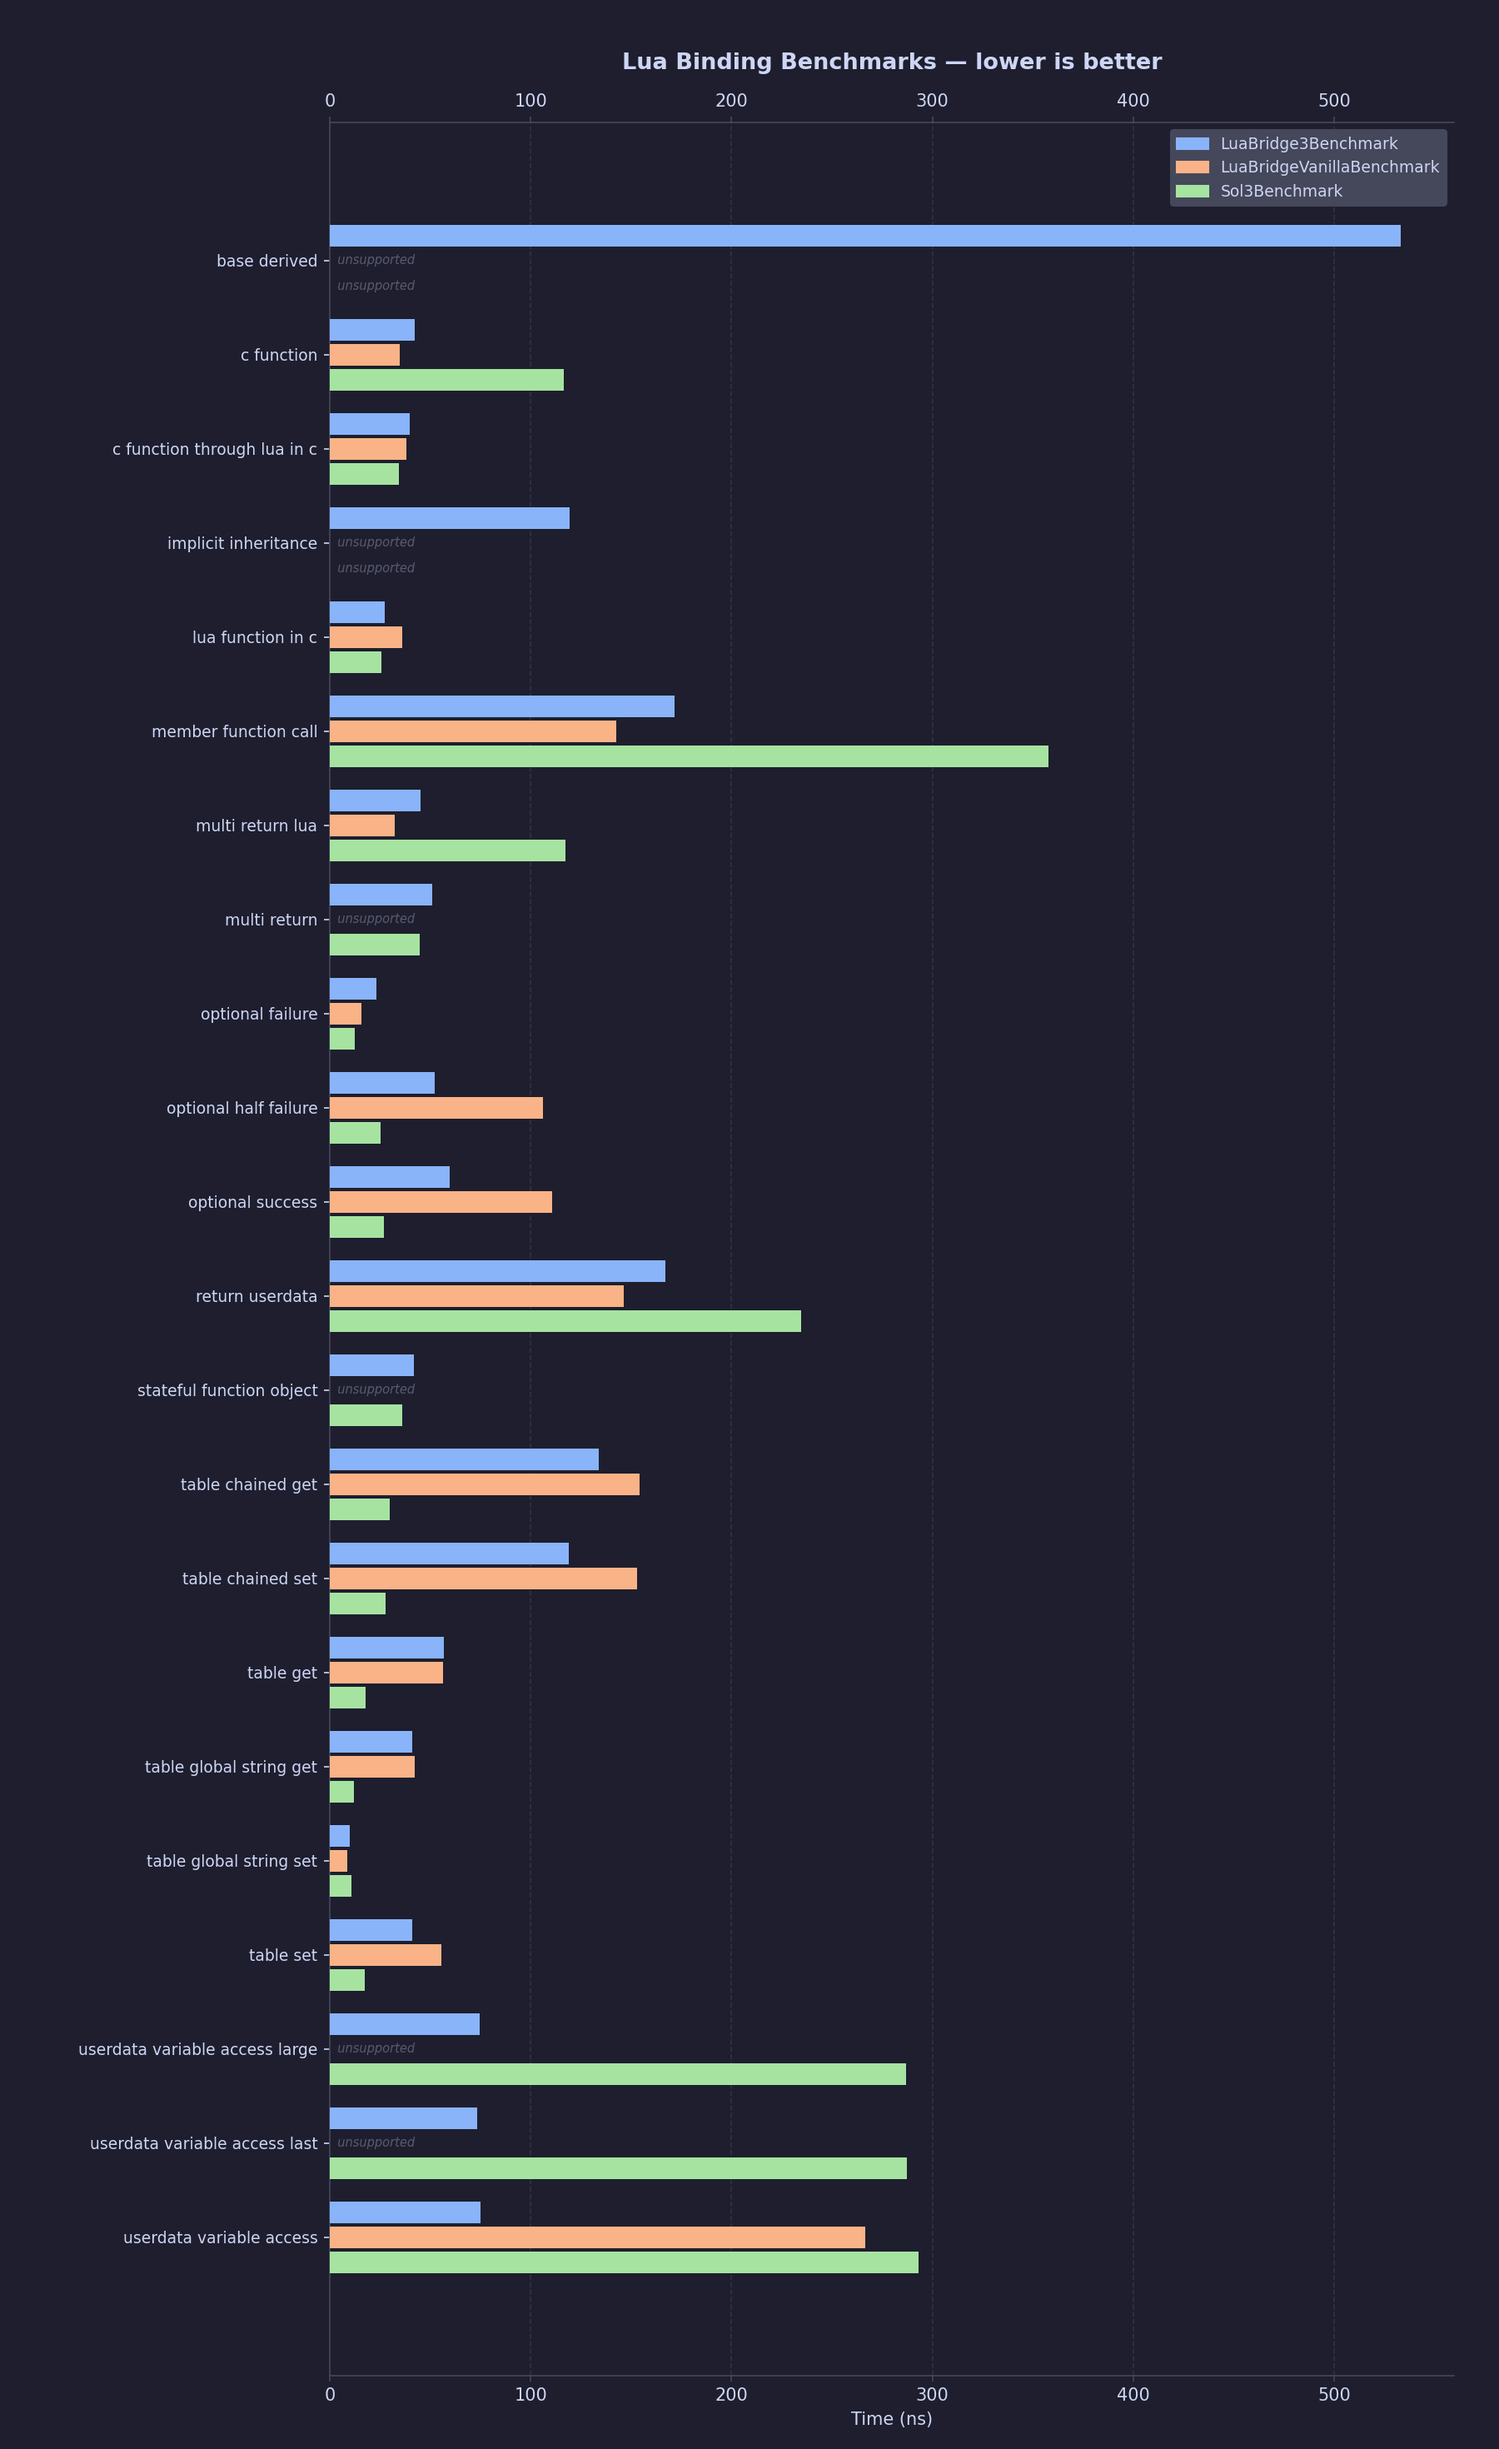
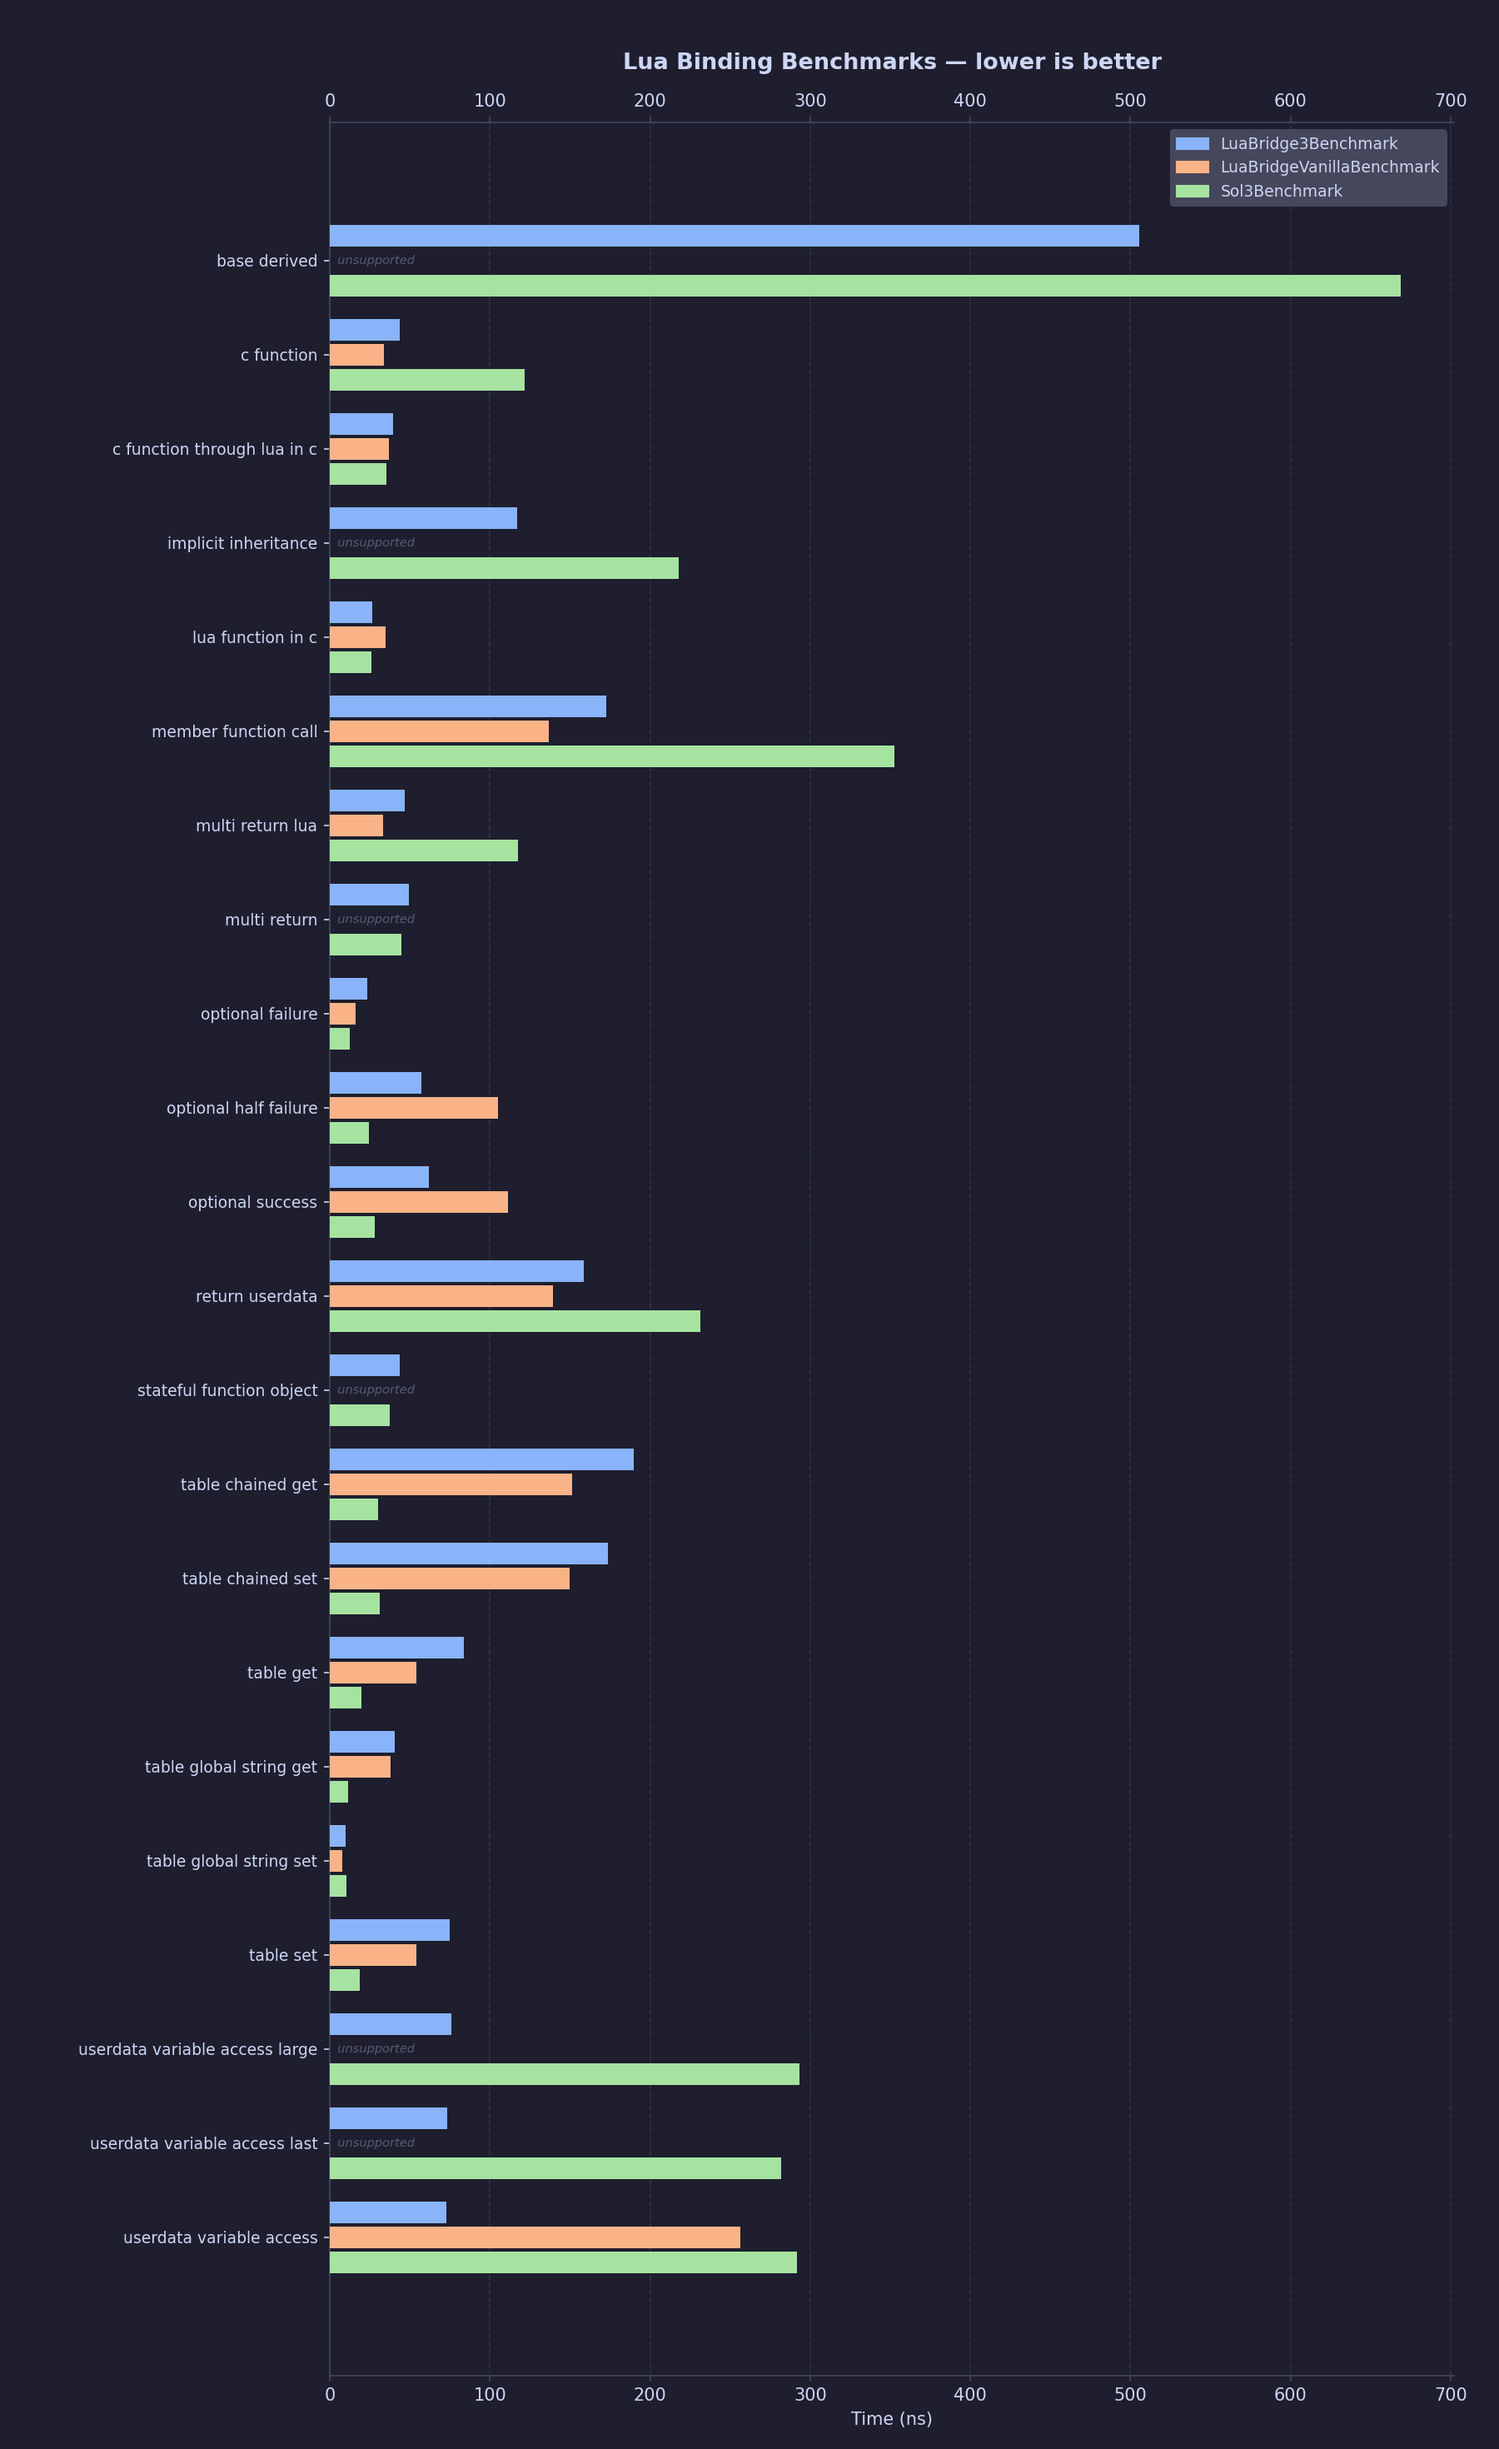
More changes

diff --git a/Source/LuaBridge/detail/Invoke.h b/Source/LuaBridge/detail/Invoke.h
@@ -32,7 +32,7 @@ bool is_handler_valid(const F& f) noexcept
 }
 
 template <class Tuple, std::size_t... Indices>
-TypeResult<Tuple> decodeTupleResult(lua_State* L, int firstResultIndex, std::index_sequence<Indices...>)
+TypeResult<Tuple> decode_tuple_result(lua_State* L, int first_result_index, std::index_sequence<Indices...>)
 {
     Tuple value;
     std::error_code ec;
@@ -42,7 +42,7 @@ TypeResult<Tuple> decodeTupleResult(lua_State* L, int firstResultIndex, std::ind
         {
             using ElementType = std::tuple_element_t<Indices, Tuple>;
 
-            auto element = Stack<ElementType>::get(L, firstResultIndex + static_cast<int>(Indices));
+            auto element = Stack<ElementType>::get(L, first_result_index + static_cast<int>(Indices));
             if (! element)
             {
                 ec = element.error();
@@ -61,29 +61,29 @@ TypeResult<Tuple> decodeTupleResult(lua_State* L, int firstResultIndex, std::ind
 }
 
 template <class R>
-TypeResult<R> decodeCallResult(lua_State* L, int firstResultIndex, int numReturnedValues)
+TypeResult<R> decode_call_result(lua_State* L, int first_result_index, int num_returned_values)
 {
     if constexpr (std::is_same_v<R, void> || std::is_same_v<R, std::tuple<>>)
     {
-        if (numReturnedValues != 0)
+        if (num_returned_values != 0)
             return makeErrorCode(ErrorCode::InvalidTableSizeInCast);
 
         return {};
     }
-    else if constexpr (IsTuple<R>::value)
+    else if constexpr (is_tuple_v<R>)
     {
-        constexpr auto expectedSize = static_cast<int>(std::tuple_size_v<R>);
-        if (numReturnedValues != expectedSize)
+        constexpr auto expected_size = static_cast<int>(std::tuple_size_v<R>);
+        if (num_returned_values != expected_size)
             return makeErrorCode(ErrorCode::InvalidTableSizeInCast);
 
-        return decodeTupleResult<R>(L, firstResultIndex, std::make_index_sequence<std::tuple_size_v<R>>{});
+        return decode_tuple_result<R>(L, first_result_index, std::make_index_sequence<expected_size>{});
     }
     else
     {
-        if (numReturnedValues < 1)
+        if (num_returned_values < 1)
             return makeErrorCode(ErrorCode::InvalidTypeCast);
 
-        return Stack<R>::get(L, firstResultIndex);
+        return Stack<R>::get(L, first_result_index);
     }
 }
 
@@ -144,7 +144,7 @@ TypeResult<R> callWithHandler(const Ref& object, F&& errorHandler, Args&&... arg
 
     const int firstResultIndex = initialTop + 1;
     const int numReturnedValues = lua_gettop(L) - initialTop;
-    return detail::decodeCallResult<R>(L, firstResultIndex, numReturnedValues);
+    return detail::decode_call_result<R>(L, firstResultIndex, numReturnedValues);
 }
 
 template <class Ref, class F, class... Args>

diff --git a/Source/LuaBridge/detail/CFunctions.h b/Source/LuaBridge/detail/CFunctions.h
@@ -106,6 +106,24 @@ auto pop_arguments(lua_State* L, std::tuple<Types...>& t)
 
 //=================================================================================================
 /**
+ * @brief Push a tuple on the stack.
+ */
+template <class Tuple, std::size_t... Is>
+Result push_tuple_impl(lua_State* L, const Tuple& value, std::index_sequence<Is...>)
+{
+    Result result;
+    (void)((result = Stack<std::decay_t<std::tuple_element_t<Is, Tuple>>>::push(L, std::get<Is>(value)), bool(result)) && ...);
+    return result;
+}
+
+template <class... Ts>
+Result push_tuple(lua_State* L, const std::tuple<Ts...>& value)
+{
+    return push_tuple_impl(L, value, std::index_sequence_for<Ts...>{});
+}
+
+//=================================================================================================
+/**
  * @brief Check if a method name is a metamethod.
  */
 template <class T = void, class... Args>
@@ -1513,10 +1531,10 @@ struct function
         try
         {
 #endif
-            if constexpr (detail::IsTuple<ReturnType>::value)
+            if constexpr (detail::is_tuple_v<ReturnType>)
             {
                 numResults = static_cast<int>(std::tuple_size_v<ReturnType>);
-                result = detail::pushTuple(L, invoke_callable_from_stack<ArgsPack, Start>(L, std::forward<F>(func)));
+                result = detail::push_tuple(L, invoke_callable_from_stack<ArgsPack, Start>(L, std::forward<F>(func)));
             }
             else
             {
@@ -1546,10 +1564,10 @@ struct function
         try
         {
 #endif
-            if constexpr (detail::IsTuple<ReturnType>::value)
+            if constexpr (detail::is_tuple_v<ReturnType>)
             {
                 numResults = static_cast<int>(std::tuple_size_v<ReturnType>);
-                result = detail::pushTuple(L, invoke_member_callable_from_stack<ArgsPack, Start>(L, ptr, std::forward<F>(func)));
+                result = detail::push_tuple(L, invoke_member_callable_from_stack<ArgsPack, Start>(L, ptr, std::forward<F>(func)));
             }
             else
             {
@@ -1571,7 +1589,7 @@ struct function
 };
 
 template <class ArgsPack, std::size_t Start>
-struct function<std::tuple<>, ArgsPack, Start>
+struct function<std::tuple<>, ArgsPack, Start> : function<void, ArgsPack, Start>
 {
     template <class F>
     static int call(lua_State* L, F&& func)

diff --git a/Benchmarks/benchmark_sol3.cpp b/Benchmarks/benchmark_sol3.cpp
@@ -325,7 +325,31 @@ void multi_return_measure(benchmark::State& state)
 
 void base_derived_measure(benchmark::State& state)
 {
-    setSkipped(state, "base_derived_measure not implemented yet for sol3 Google Benchmark port");
+    sol::state lua;
+
+    lua.new_usertype<ComplexBaseA>("ComplexBaseA",
+        "a_func", &ComplexBaseA::a_func,
+        "a", &ComplexBaseA::a);
+
+    lua.new_usertype<ComplexBaseB>("ComplexBaseB",
+        "b_func", &ComplexBaseB::b_func,
+        "b", &ComplexBaseB::b);
+
+    lua.new_usertype<ComplexAB>("ComplexAB",
+        sol::base_classes, sol::bases<ComplexBaseA, ComplexBaseB>(),
+        "ab_func", &ComplexAB::ab_func,
+        "ab", &ComplexAB::ab);
+
+    ComplexAB ab;
+    lua["b"] = &ab;
+
+    lua.script("function call_base() return b:a_func() + b:b_func() end");
+
+    for (auto _ : state)
+    {
+        (void) _;
+        lua["call_base"]();
+    }
 }
 
 void optional_success_measure(benchmark::State& state)
@@ -392,7 +416,26 @@ void return_userdata_measure(benchmark::State& state)
 
 void implicit_inheritance_measure(benchmark::State& state)
 {
-    setSkipped(state, "implicit_inheritance_measure not implemented yet for sol3 Google Benchmark port");
+    sol::state lua;
+
+    lua.new_usertype<ComplexBaseA>("ComplexBaseA",
+        "a_func", &ComplexBaseA::a_func);
+
+    lua.new_usertype<ComplexAB>("ComplexAB",
+        sol::constructors<ComplexAB()>(),
+        sol::base_classes, sol::bases<ComplexBaseA>(),
+        "ab_func", &ComplexAB::ab_func);
+
+    lua.set_function("call_a", +[](ComplexBaseA* obj) -> double { return obj->a_func(); });
+
+    lua.script("obj = ComplexAB.new()");
+    lua.script("function test_implicit() return call_a(obj) end");
+
+    for (auto _ : state)
+    {
+        (void) _;
+        lua["test_implicit"]();
+    }
 }
 
 } // namespace

diff --git a/Source/LuaBridge/detail/Stack.h b/Source/LuaBridge/detail/Stack.h
@@ -26,31 +26,6 @@
 #include <utility>
 
 namespace luabridge {
-namespace detail {
-template <class T>
-struct IsTuple : std::false_type
-{
-};
-
-template <class... Ts>
-struct IsTuple<std::tuple<Ts...>> : std::true_type
-{
-};
-
-template <class Tuple, std::size_t... Is>
-Result pushTupleImpl(lua_State* L, const Tuple& value, std::index_sequence<Is...>)
-{
-    Result result;
-    ((result = Stack<std::decay_t<std::tuple_element_t<Is, Tuple>>>::push(L, std::get<Is>(value)), bool(result)) && ...);
-    return result;
-}
-
-template <class... Ts>
-Result pushTuple(lua_State* L, const std::tuple<Ts...>& value)
-{
-    return pushTupleImpl(L, value, std::index_sequence_for<Ts...>{});
-}
-} // namespace detail
 
 //=================================================================================================
 /**

diff --git a/Source/LuaBridge/detail/TypeTraits.h b/Source/LuaBridge/detail/TypeTraits.h
@@ -9,6 +9,7 @@
 #include "Config.h"
 
 #include <memory>
+#include <tuple>
 
 namespace luabridge {
 namespace detail {
@@ -27,6 +28,18 @@ static inline constexpr bool is_base_of_template_v = is_base_of_template<T, C>::
 template <class... Args>
 constexpr bool dependent_false = false;
 
+template <class T>
+struct is_tuple : std::false_type
+{
+};
+
+template <class... Ts>
+struct is_tuple<std::tuple<Ts...>> : std::true_type
+{
+};
+
+template <class T>
+constexpr bool is_tuple_v = is_tuple<T>::value;
 } // namespace detail
 
 //=================================================================================================
